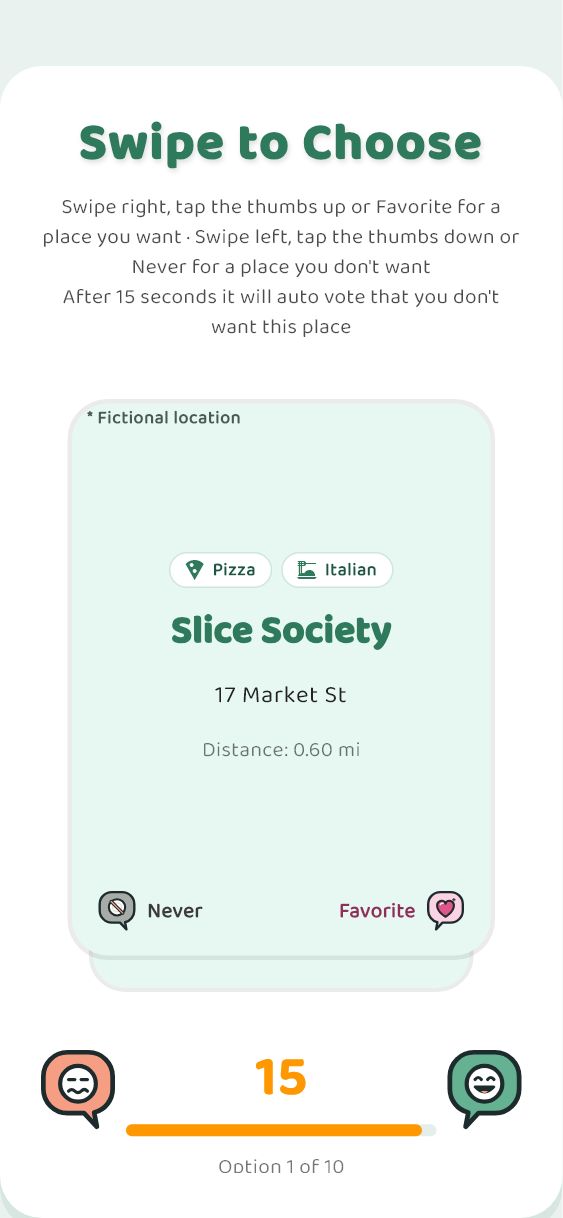
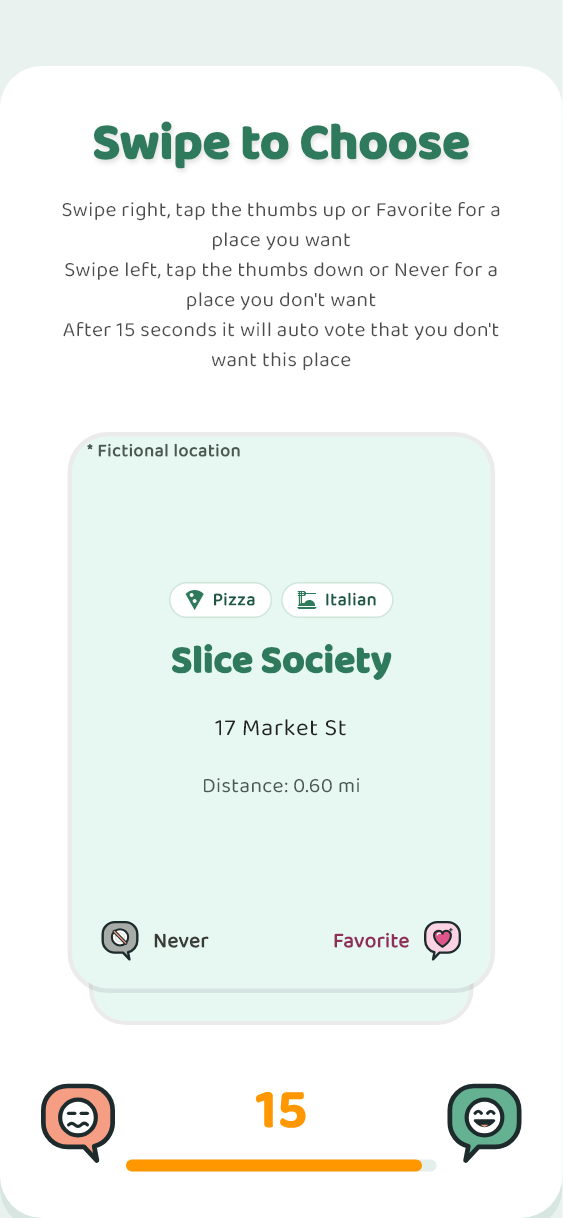
Point the site at the demo and let the hero phone be swiped
"Try it as a guest" opened the plain app, which says less than the demo
now does, so the link becomes "Try the demo" and opens the practice room
directly through a new /app/demo link. The hero phone's screens can be
swiped or dragged sideways like the app, stepping back and forward and
pausing the auto-advance; vertical drags still scroll the page. Its
screenshots are redrawn so Home shows the new banner and the other
screens pick up the recent text and spacing changes.

diff --git a/site/site.js b/site/site.js
@@ -225,7 +225,8 @@ function warmUpApp() {
 }
 
 // ---- Hero: the phone steps through real app screens. The dots jump to a
-// screen and the button pauses; with reduced motion it only moves when asked.
+// screen, a sideways swipe or drag on the phone steps back and forward, and
+// the button pauses; with reduced motion it only moves when asked.
 function playScreens() {
   const shots = [...document.querySelectorAll('#hero-phone .shot')];
   const dots = [...document.querySelectorAll('.demo-dots button')];
@@ -257,6 +258,27 @@ function playScreens() {
     setPaused(true);
   }));
   pause.addEventListener('click', () => setPaused(pause.getAttribute('aria-pressed') !== 'true'));
+  // Swiping the phone like the app: left for the next screen, right for the
+  // one before. Mostly-vertical drags are left alone so the page still scrolls.
+  const screen = document.querySelector('#hero-phone .screen');
+  let from = null;
+  screen.addEventListener('pointerdown', event => {
+    if (event.pointerType === 'mouse' && event.button !== 0) return;
+    from = { x: event.clientX, y: event.clientY, id: event.pointerId };
+  });
+  const release = event => {
+    if (!from || event.pointerId !== from.id) return;
+    const dx = event.clientX - from.x;
+    const dy = event.clientY - from.y;
+    from = null;
+    if (Math.abs(dx) < 30 || Math.abs(dx) < Math.abs(dy) * 1.5) return;
+    show(current + (dx < 0 ? 1 : -1));
+    setPaused(true);
+  };
+  screen.addEventListener('pointerup', release);
+  // A touch that turns into a page scroll is cancelled by the browser.
+  screen.addEventListener('pointercancel', () => { from = null; });
+  screen.addEventListener('dragstart', event => event.preventDefault());
   setPaused(reduceMotion);
 }
 

diff --git a/site/index.html b/site/index.html
@@ -4,7 +4,7 @@
   <meta charset="UTF-8">
   <meta name="viewport" content="width=device-width, initial-scale=1">
   <title>What Do You Want?! Decide where to eat, together</title>
-  <meta name="description" content="We pull up spots to eat near you, everyone in your group swipes through the same picks, and the place you all agree on wins. Host a room, join with a code, or try it as a guest.">
+  <meta name="description" content="We pull up spots to eat near you, everyone in your group swipes through the same picks, and the place you all agree on wins. Host a room, join with a code, or try the demo.">
   <meta name="theme-color" content="#2f7a5c">
   <meta property="og:type" content="website">
   <meta property="og:site_name" content="What Do You Want?!">
@@ -55,7 +55,7 @@
         <div class="hero-actions">
           <a class="btn btn-solid" href="/app/host?from=site">Host a room</a>
           <a class="btn btn-outline-green" href="/app/join?from=site">Join with a code</a>
-          <a class="btn btn-link" href="/app?from=site">Try it as a guest</a>
+          <a class="btn btn-link" href="/app/demo?from=site">Try the demo</a>
         </div>
         <div class="stores" aria-label="Store apps">
           <span class="store">App Store · Coming soon</span>

diff --git a/lib/services/site_links.dart b/lib/services/site_links.dart
@@ -29,7 +29,7 @@ Uri accountReturnLink(String projectId, {Uri? current}) =>
 Uri sitePageLink(String origin, String path) => Uri.parse('$origin$path');
 
 /// What an app address asks the app to open.
-enum AppLinkTarget { host, join, account, accountAction, insights }
+enum AppLinkTarget { host, join, account, accountAction, insights, demo }
 
 /// The account steps an emailed link can finish in the app. Every Firebase
 /// email links to the account page, so any other step still arrives there
@@ -74,7 +74,7 @@ AppLink? takeLaunchLink(Uri uri) {
 }
 
 /// Reads `/app/host`, `/app/join`, `/app/join/<code>`, `/app/account`,
-/// `/app/insights` (the owner's usage page) and
+/// `/app/insights` (the owner's usage page), `/app/demo` (the practice room) and
 /// emailed account links (`/app/account?mode=…&oobCode=…`). The
 /// app is served from `/app` on the site and from the root during local
 /// development.
@@ -106,6 +106,7 @@ AppLink? appLinkFrom(Uri uri) {
     'join' => const AppLink(AppLinkTarget.join),
     'account' => const AppLink(AppLinkTarget.account),
     'insights' => const AppLink(AppLinkTarget.insights),
+    'demo' => const AppLink(AppLinkTarget.demo),
     _ => null,
   };
 }

diff --git a/site/styles.css b/site/styles.css
@@ -210,7 +210,10 @@ section { position: relative; padding: 4rem 0; }
 .phone::after { right: -3px; top: 130px; height: 80px; }
 .screen {
   position: relative; height: 520px; border-radius: 37px; overflow: hidden; background: #eaf3ee;
+  /* Sideways swipes step through the screens; vertical ones scroll the page. */
+  touch-action: pan-y; user-select: none; -webkit-user-select: none; cursor: grab;
 }
+.screen:active { cursor: grabbing; }
 .screen::before {
   content: ''; z-index: 1; position: absolute; top: 12px; left: 50%; transform: translateX(-50%);
   width: 86px; height: 24px; border-radius: 14px; background: #050607;

diff --git a/lib/screens/home_screen.dart b/lib/screens/home_screen.dart
@@ -16,6 +16,7 @@ import 'main_shell.dart';
 import 'own_list_screen.dart';
 import 'search_setup_screen.dart';
 import 'bubble_icons.dart';
+import 'demo_screen.dart';
 import 'home_banner.dart';
 import 'intro_screen.dart';
 import 'step_card.dart';
@@ -89,6 +90,8 @@ class HomeScreenState extends State<HomeScreen>
               context,
               MaterialPageRoute<void>(builder: (_) => const InsightsScreen()),
             );
+          case AppLinkTarget.demo:
+            Navigator.push(context, DemoScreen.route());
         }
       });
     }

diff --git a/test/site_links_test.dart b/test/site_links_test.dart
@@ -15,6 +15,7 @@ void main() {
       ('app/account', AppLinkTarget.account),
       ('app/host', AppLinkTarget.host),
       ('app/join', AppLinkTarget.join),
+      ('app/demo', AppLinkTarget.demo),
     ]) {
       final link = appLinkFrom(Uri.parse('https://example.test/$path'));
       expect((link?.target, link?.joinCode), (target, null), reason: path);
